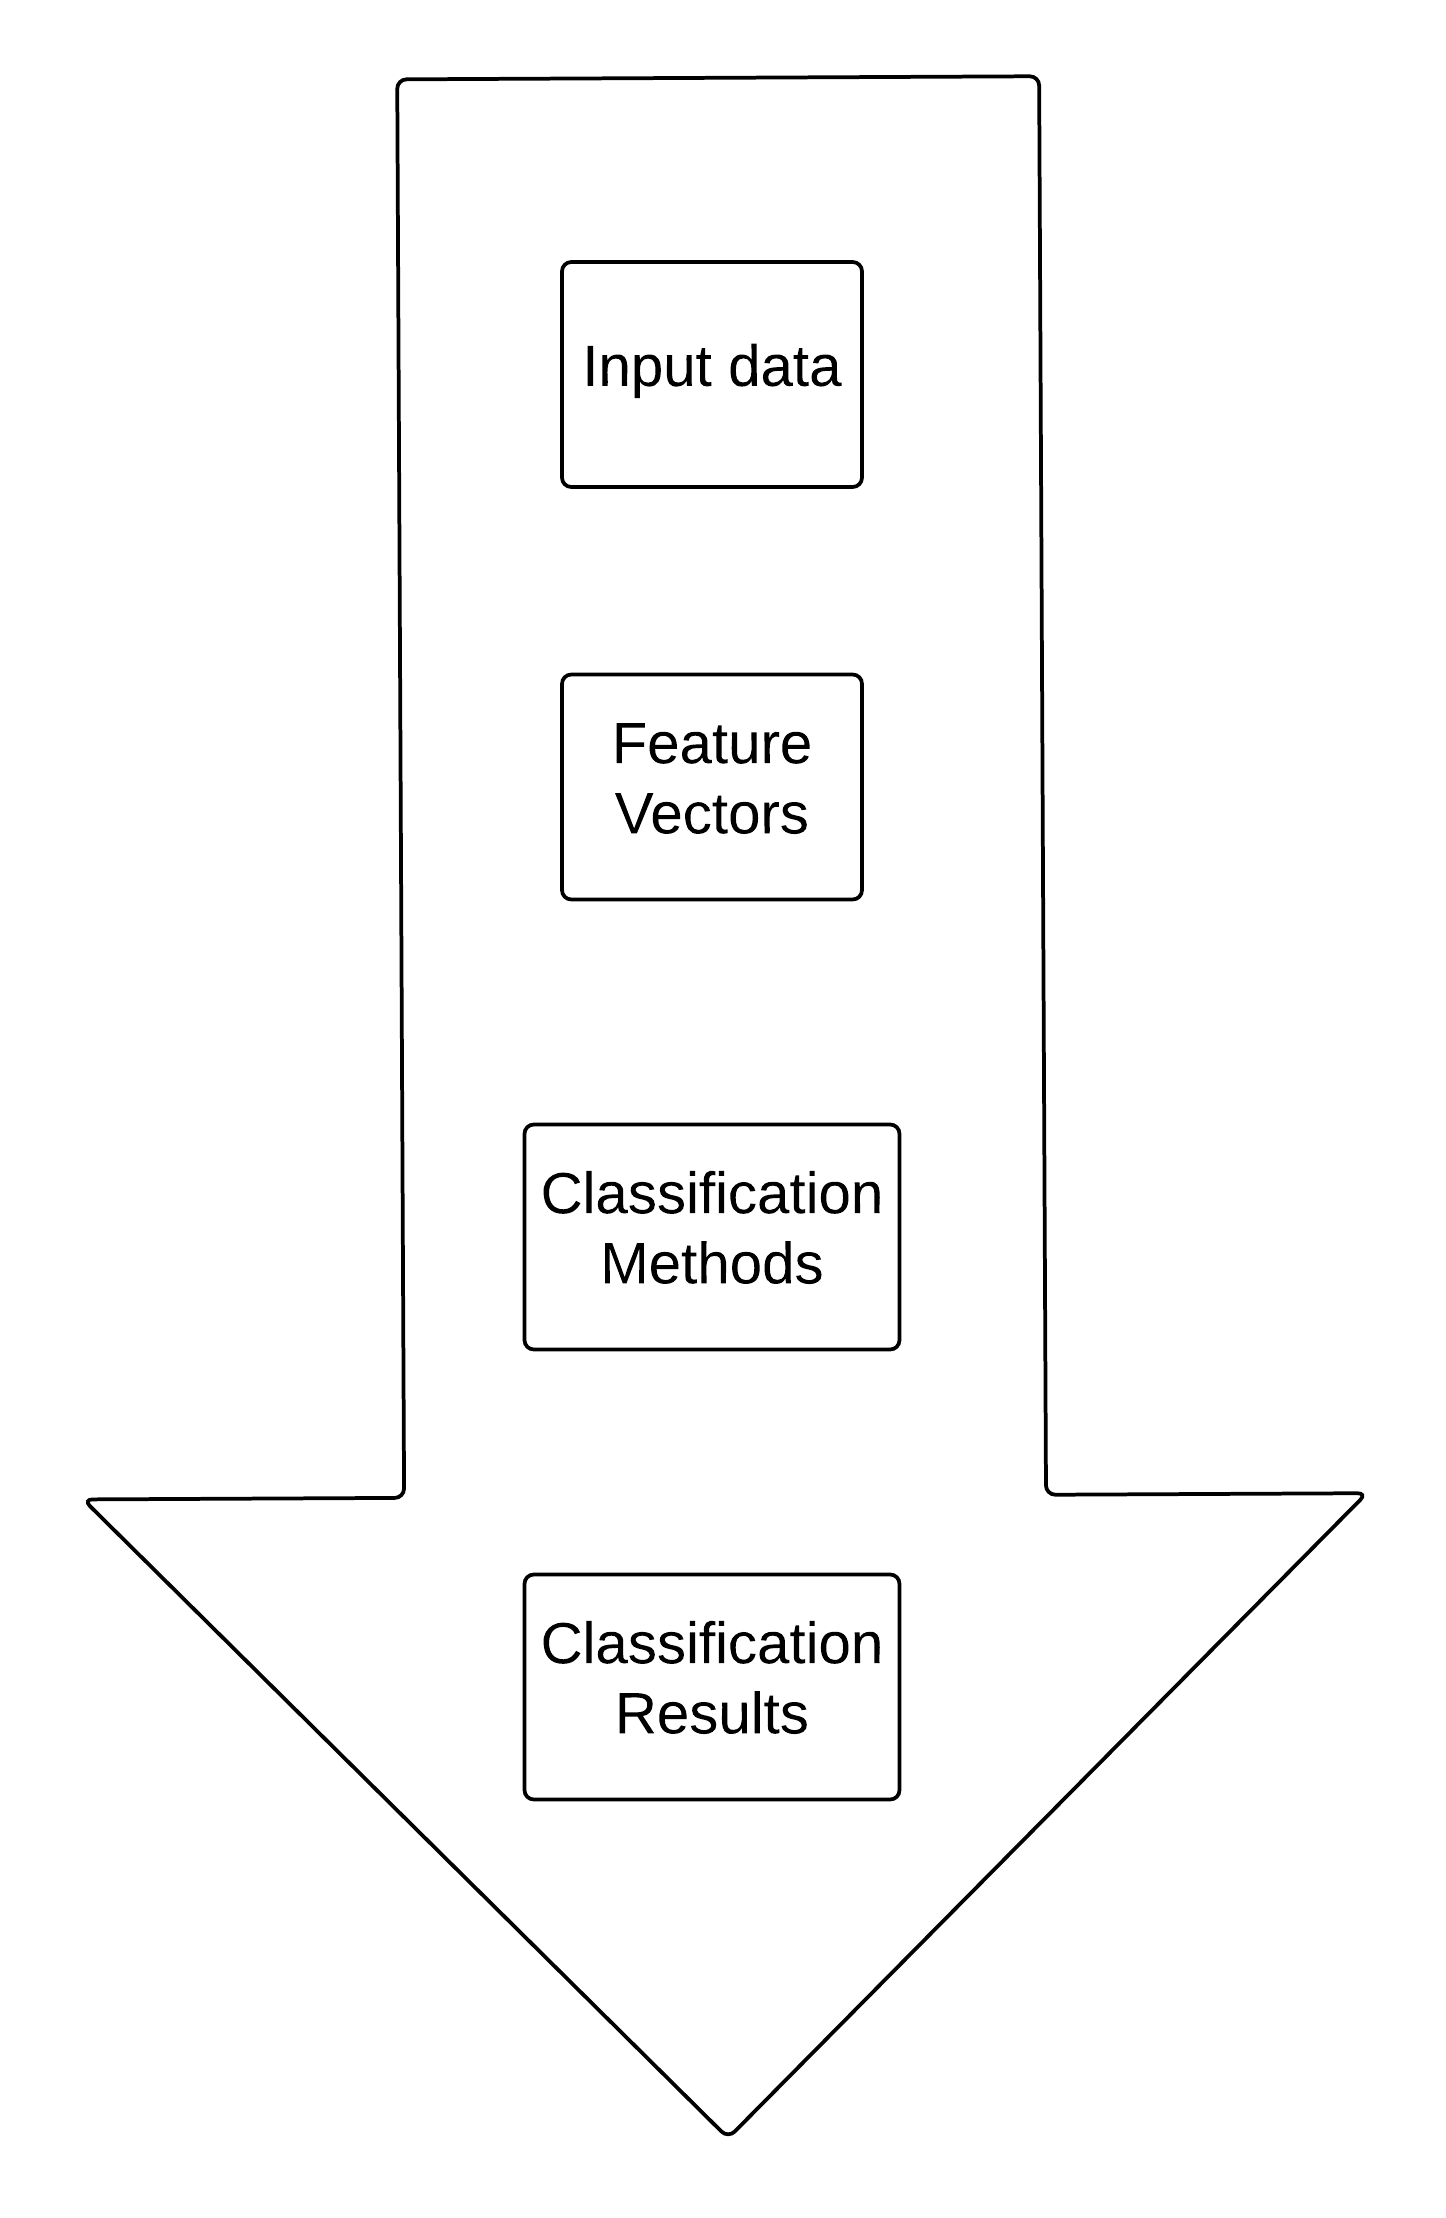
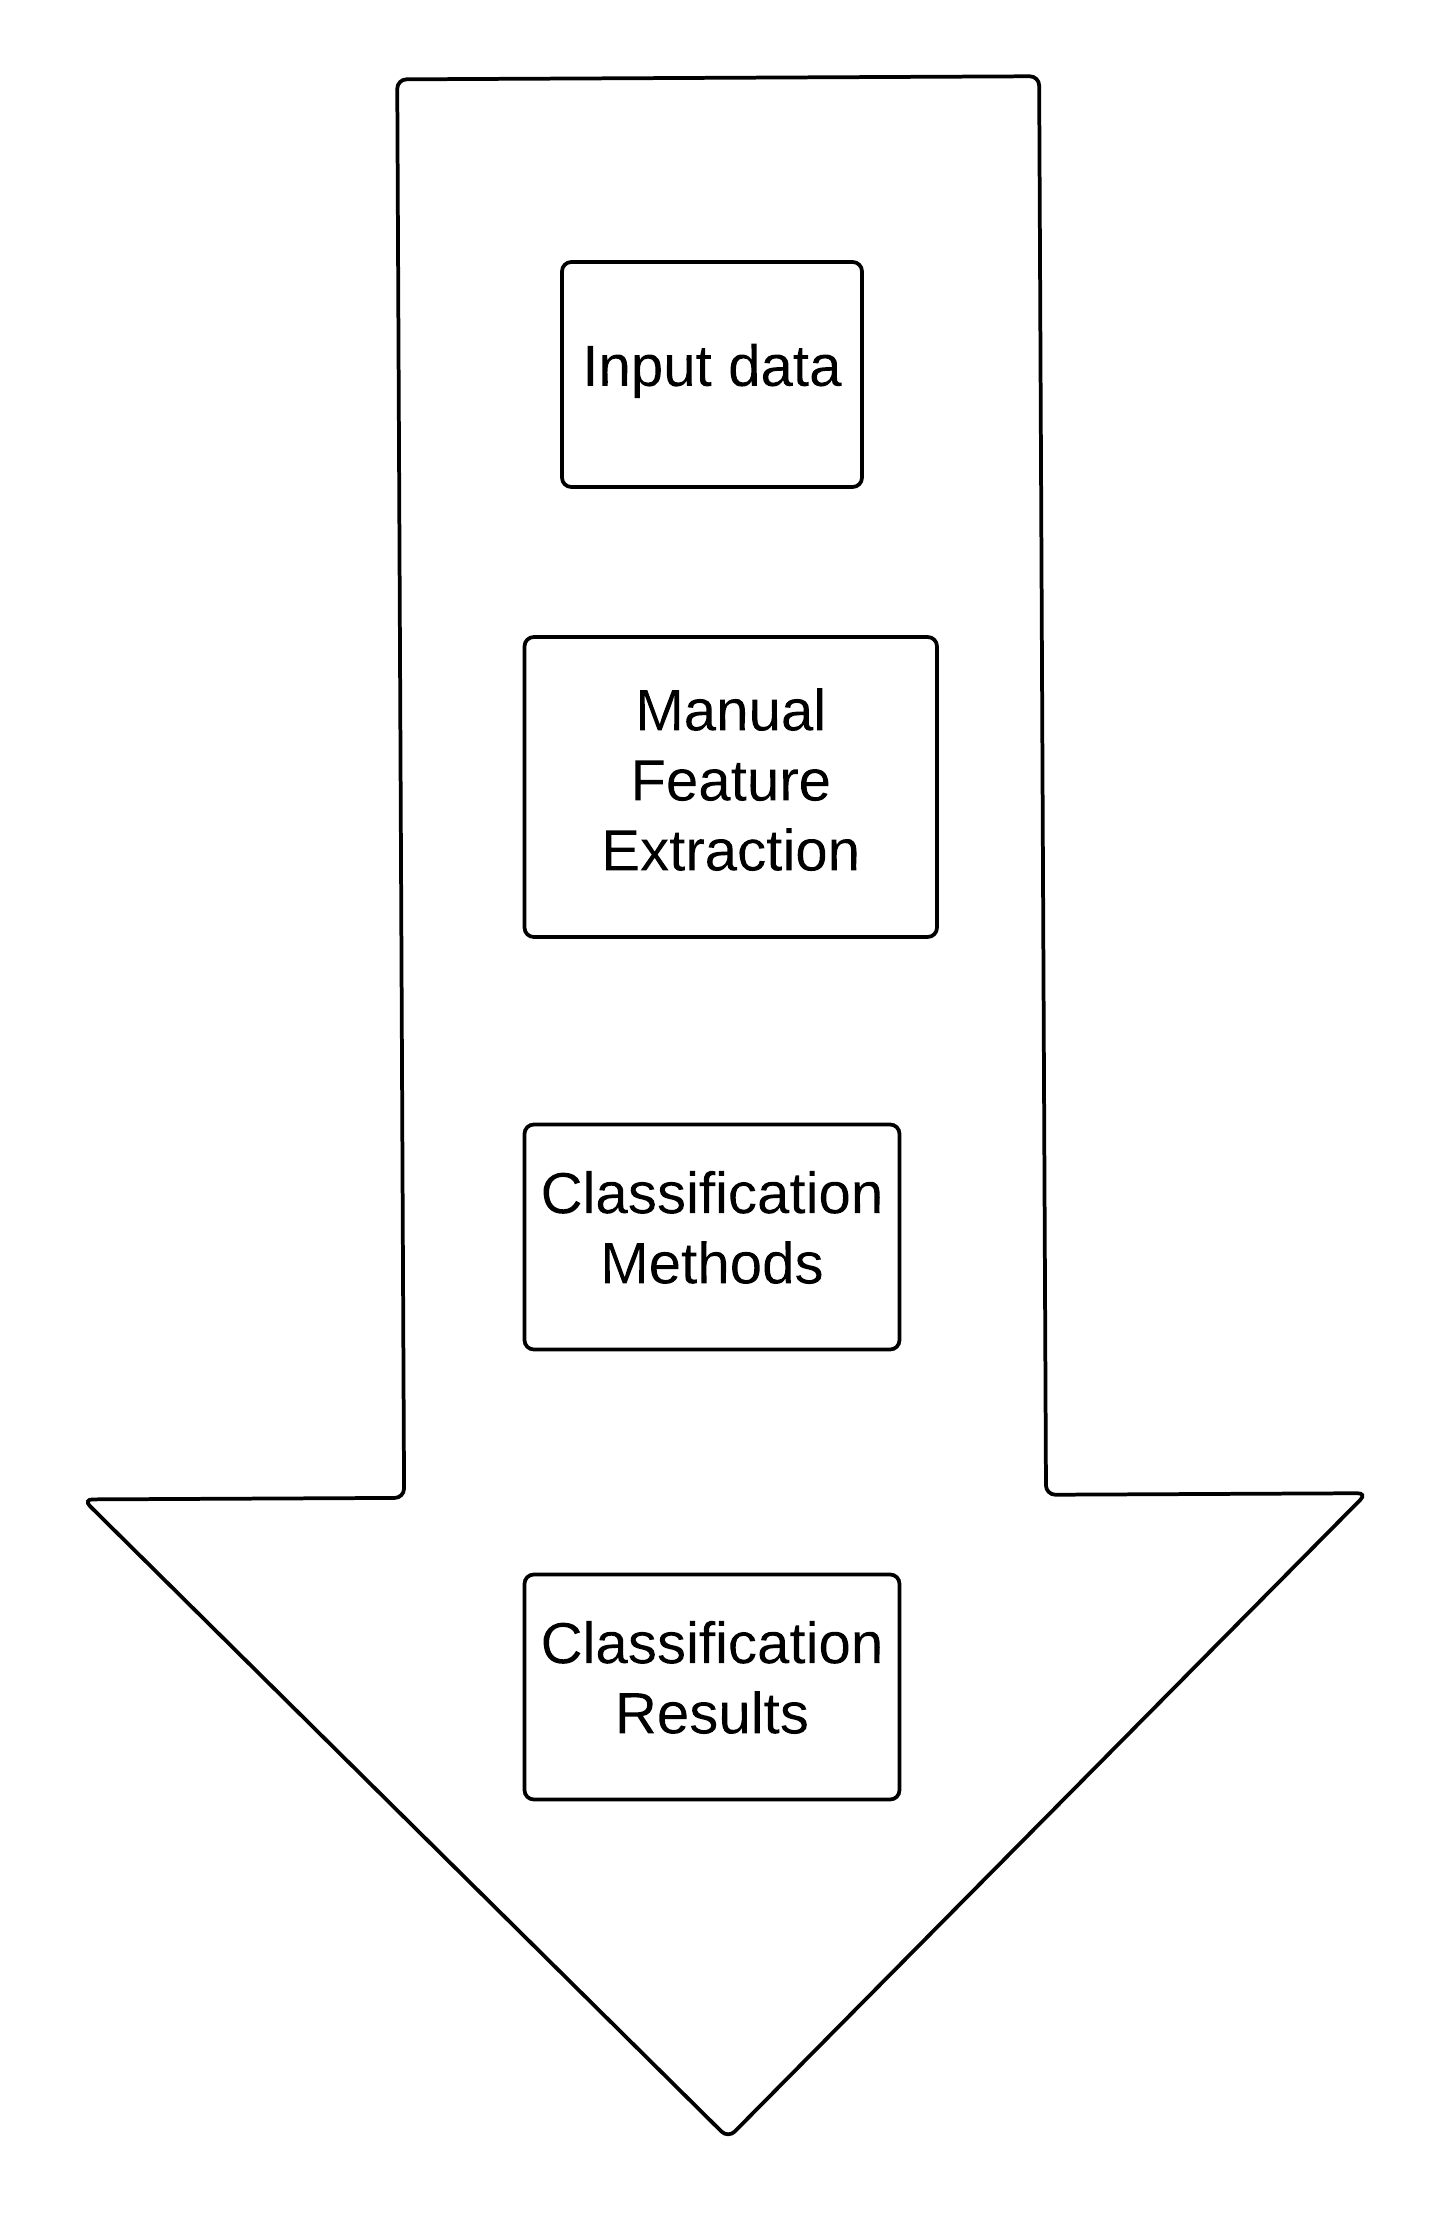
image more

Changed region(s): [[0.3734, 0.28, 0.6224, 0.4355], [0.3423, 0.3111, 0.3734, 0.4044], [0.6224, 0.28, 0.6535, 0.3111]]

diff --git a/progress_spec.tex b/progress_spec.tex
@@ -213,6 +213,16 @@ and return the classification results or decisions.
 %TODO: remember to change figure numbers
 
 %FIGURE: Standard flow for this library implementation
+\begin{figure}[H]
+	\begin{center}
+		\includegraphics[width=0.75\linewidth]{ourworkflow}
+	\end{center}
+	\vspace{-12pt}
+	\caption{Library Interface Workflow as Applied to Machine Learning}
+	\label{fig:ourworkflow}
+\end{figure}
+
+
 Figure 1. 
 Training data --> specify the data types/structures --> push into library --> library extracts feature vectors, perhaps through convolution kernels OR the linear autoencoder networks -->
 run vectors through classifier algorithms/models --> get classification results/decisions
